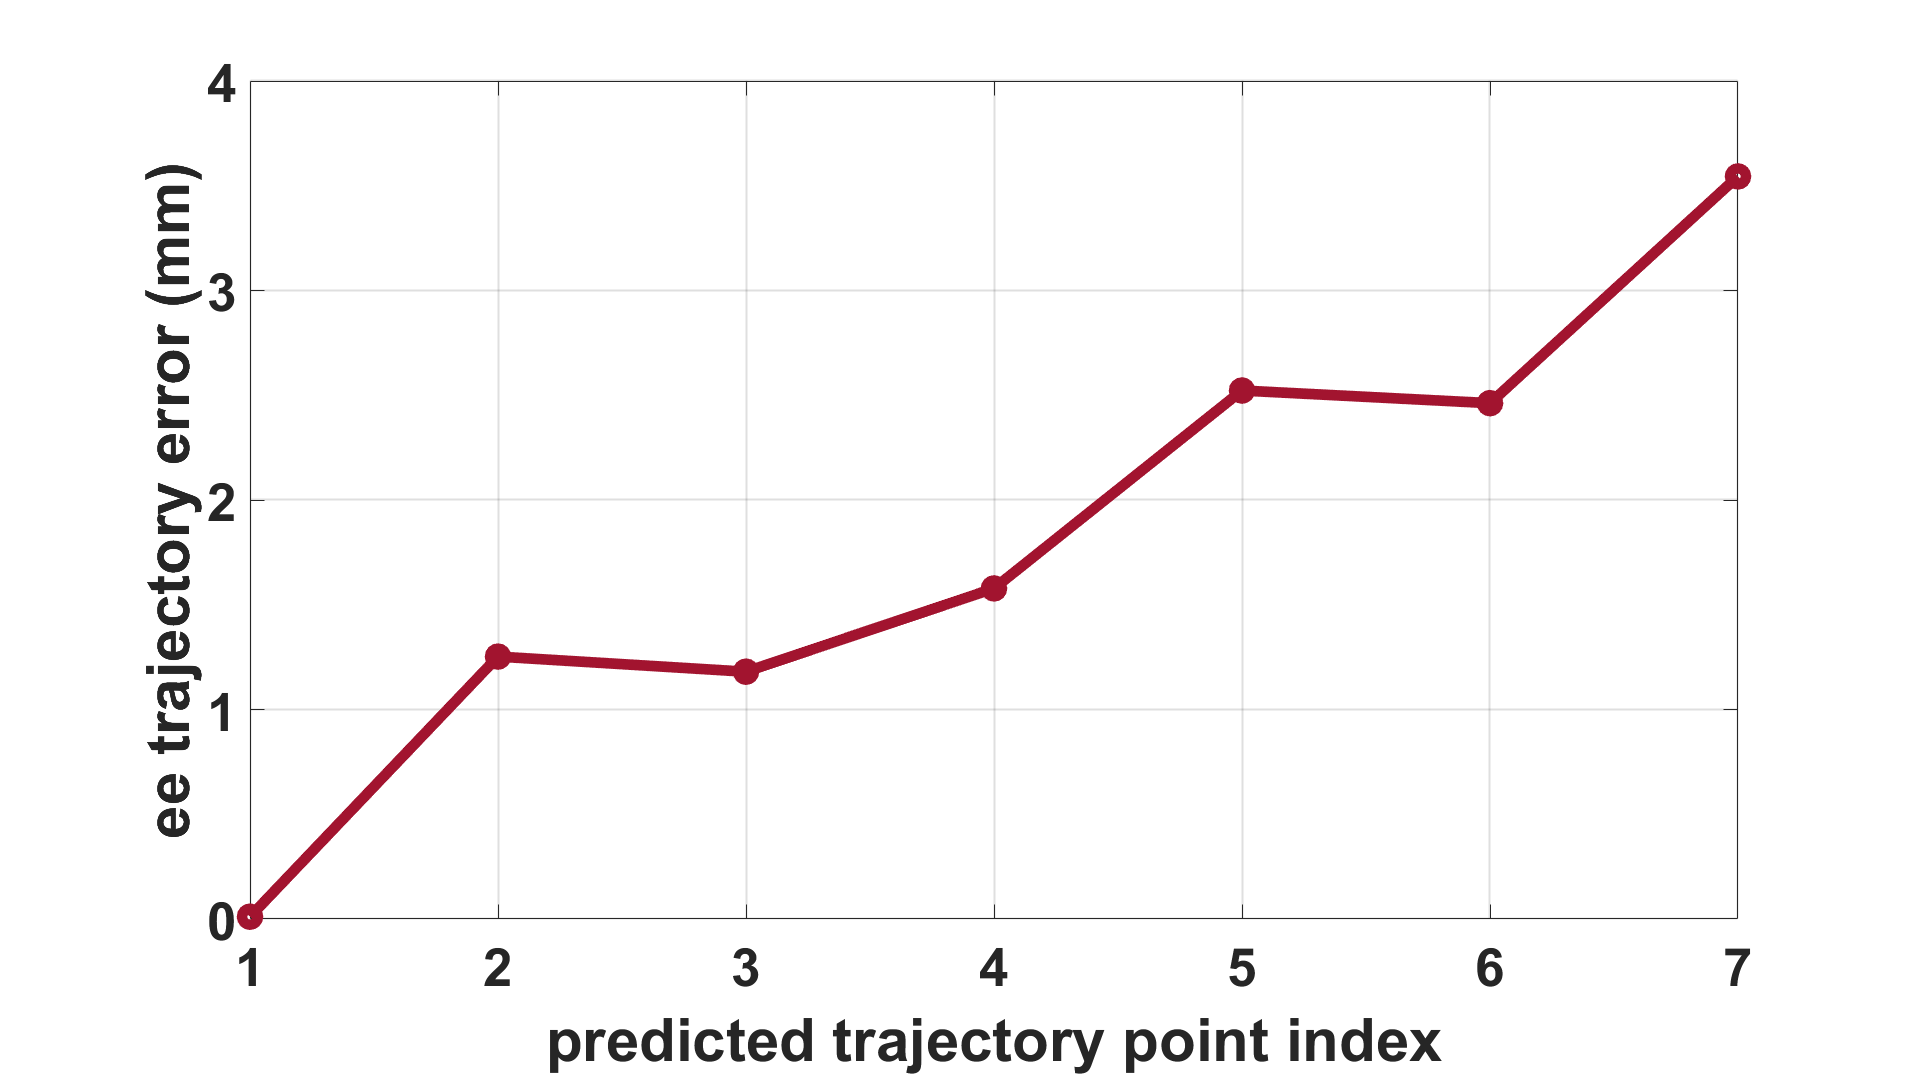
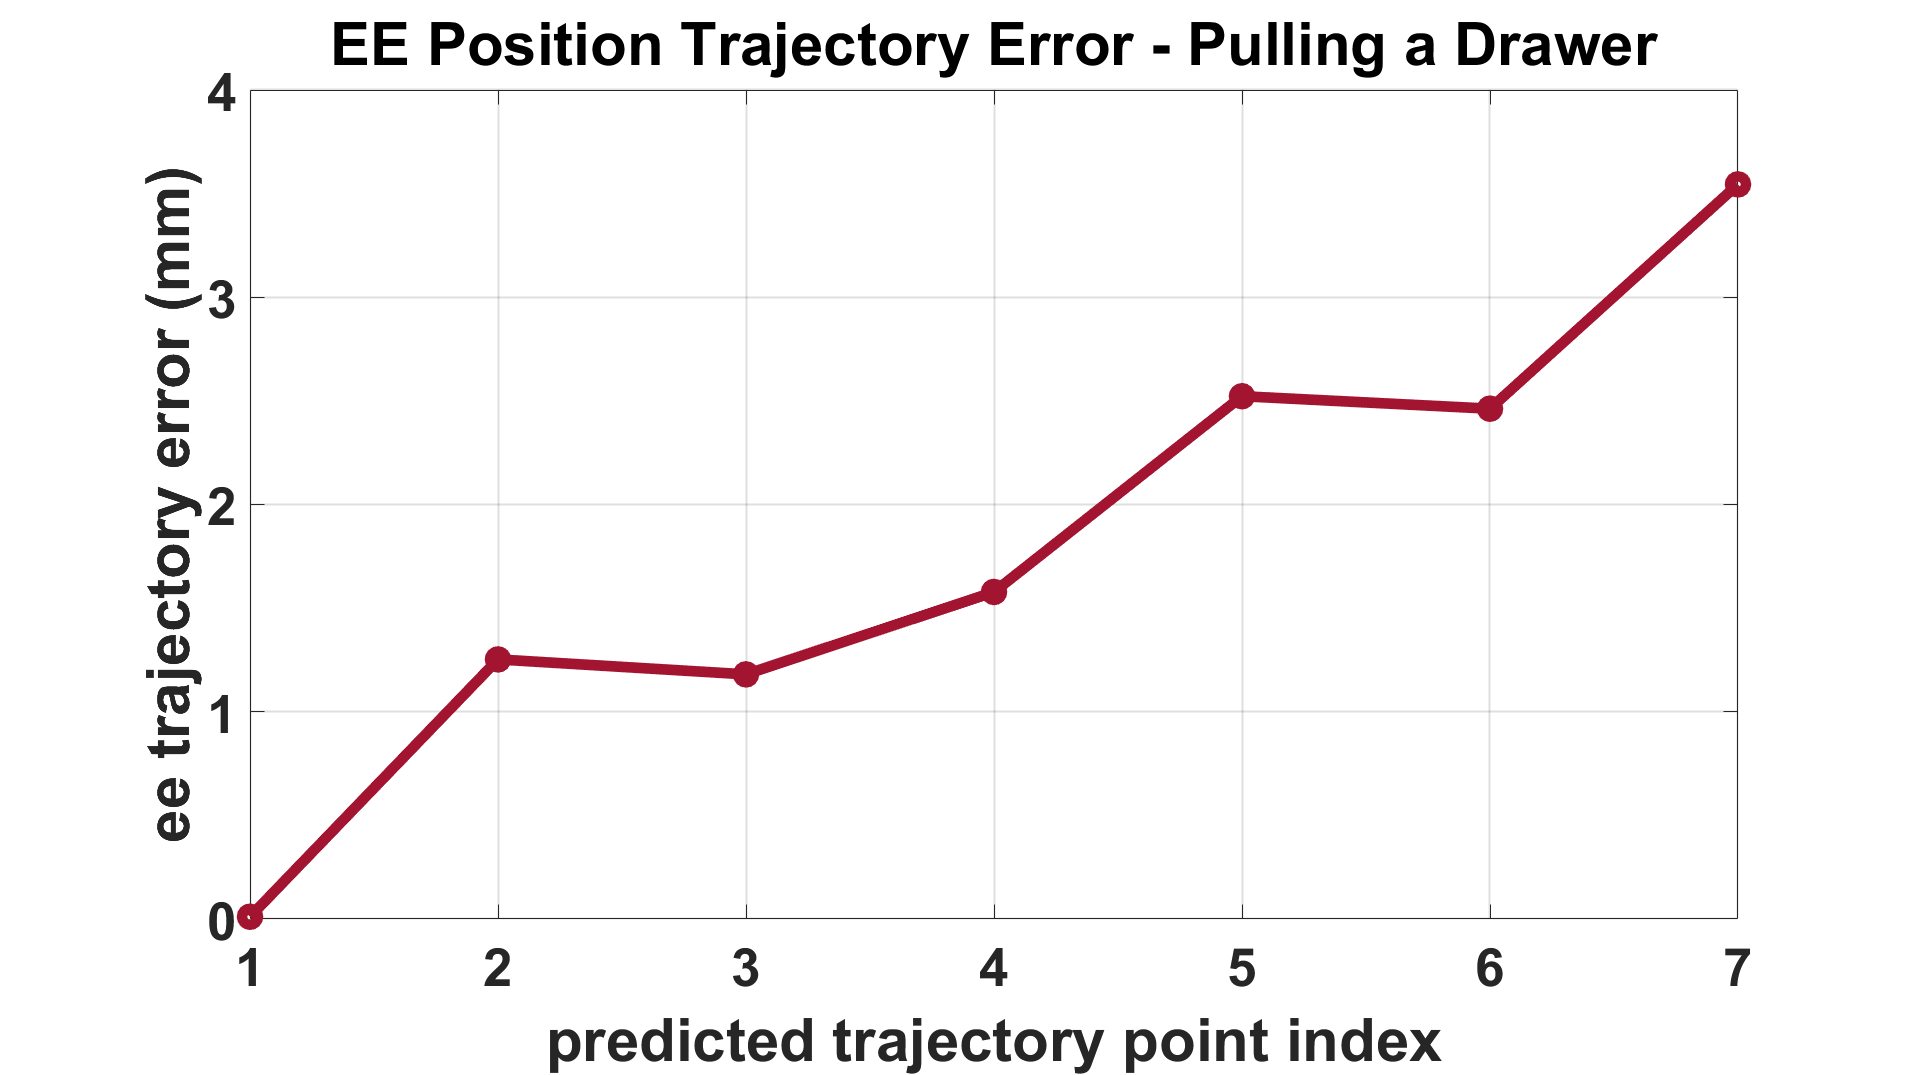
add subtitles

diff --git a/real_robot_data_plots_and_demos/pulling_a_drawer/ee_position_and_joint_states_plotter.m b/real_robot_data_plots_and_demos/pulling_a_drawer/ee_position_and_joint_states_plotter.m
@@ -187,7 +187,7 @@ grid_lw = 1.5;
 xlabel(ax_joint_states, 'time (s)');
 ylabel(ax_joint_states, 'joint states (rad)');
 legend(ax_joint_states,'Interpreter', 'none', 'Color', 'none'); % Don't interpret underscores as cues for subscripts, and don't fill the legend box
-% title(ax_joint_states, ['Actual Joint States vs. Time - ',title_postfix]);
+title(ax_joint_states, ['Actual Joint States vs. Time - ',title_postfix]);
 
 % Set fontsizes for various plot parameters
 ax_joint_states.XAxis.FontSize = tick_fontsize; 
@@ -358,7 +358,7 @@ grid on
 
 xlabel(ax_ee_traj_final, 'x(mm)');
 ylabel(ax_ee_traj_final, 'y(mm)');
-% title(ax_ee_traj_error2, ['EE Trajectory and Error - ',title_postfix]);
+title(ax_ee_traj_final, ['EE Position Trajectory - ',title_postfix]);
 
 % Create legend for the left plot elements
 hLegend = legend(ax_ee_traj_final, 'Interpreter', 'none', 'Color', 'none');
@@ -394,7 +394,7 @@ ax_ee_traj_final.Legend.FontSize = legend_fontsize;
 
 
 fig5 = figure(5);
-title_fontsize = 35;
+title_fontsize = 45;
 label_fontsize = 45;
 legend_fontsize = 25;
 tick_fontsize = 40;
@@ -411,7 +411,7 @@ plot(ax_ee_traj_error_final, ...
      'LineWidth', 8, 'MarkerSize', 12, 'DisplayName', 'trajectory error');
 xlabel(ax_ee_traj_error_final, 'predicted trajectory point index');
 ylabel(ax_ee_traj_error_final, 'ee trajectory error (mm)');
-% title(ax_ee_traj_error3, ['EE Trajectory Error - ',title_postfix]);
+title(ax_ee_traj_error_final, ['EE Position Trajectory Error - ',title_postfix]);
 
 grid on
 
